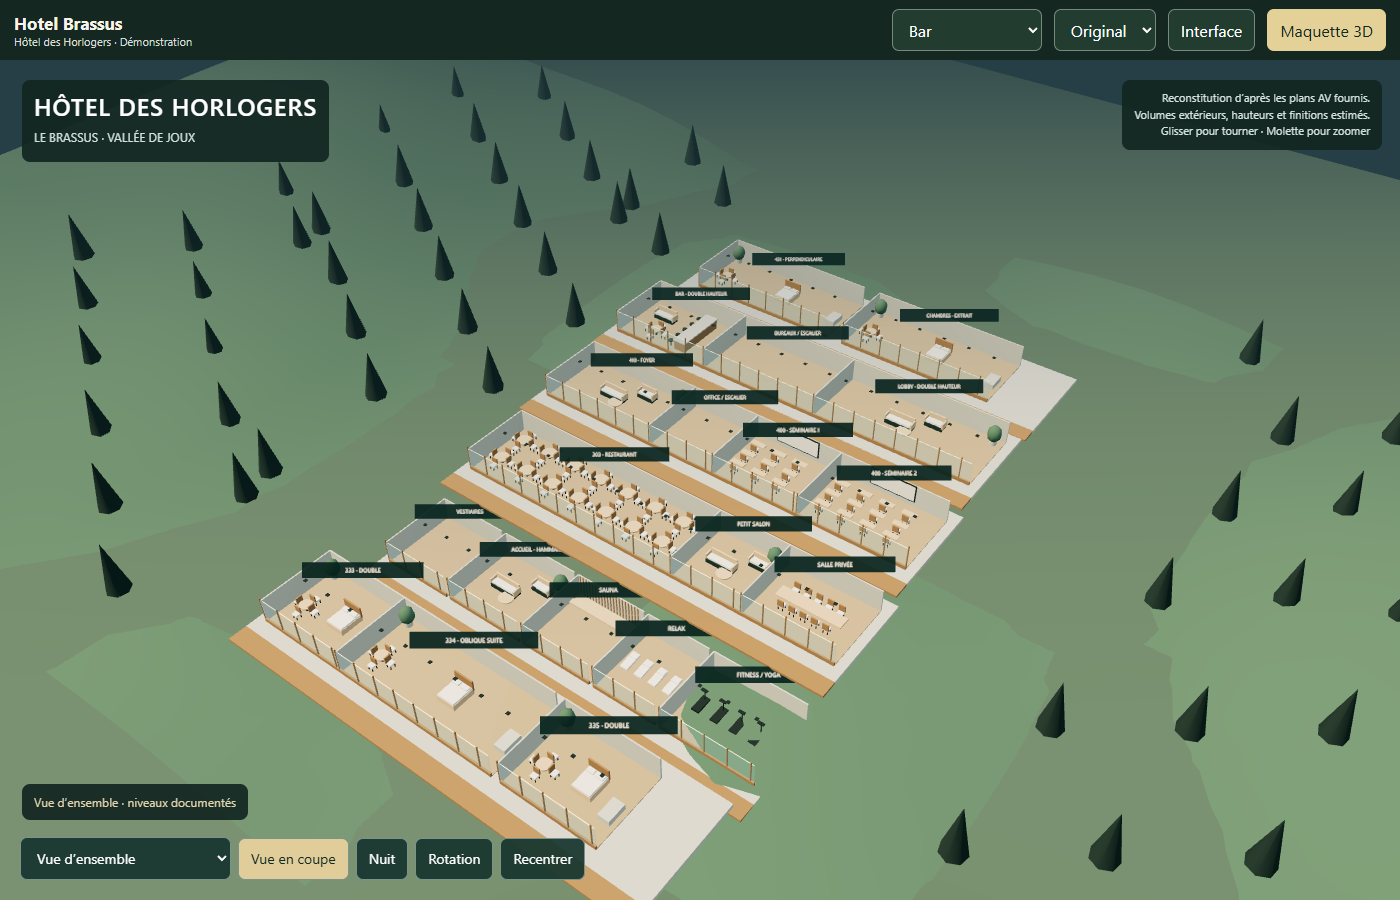
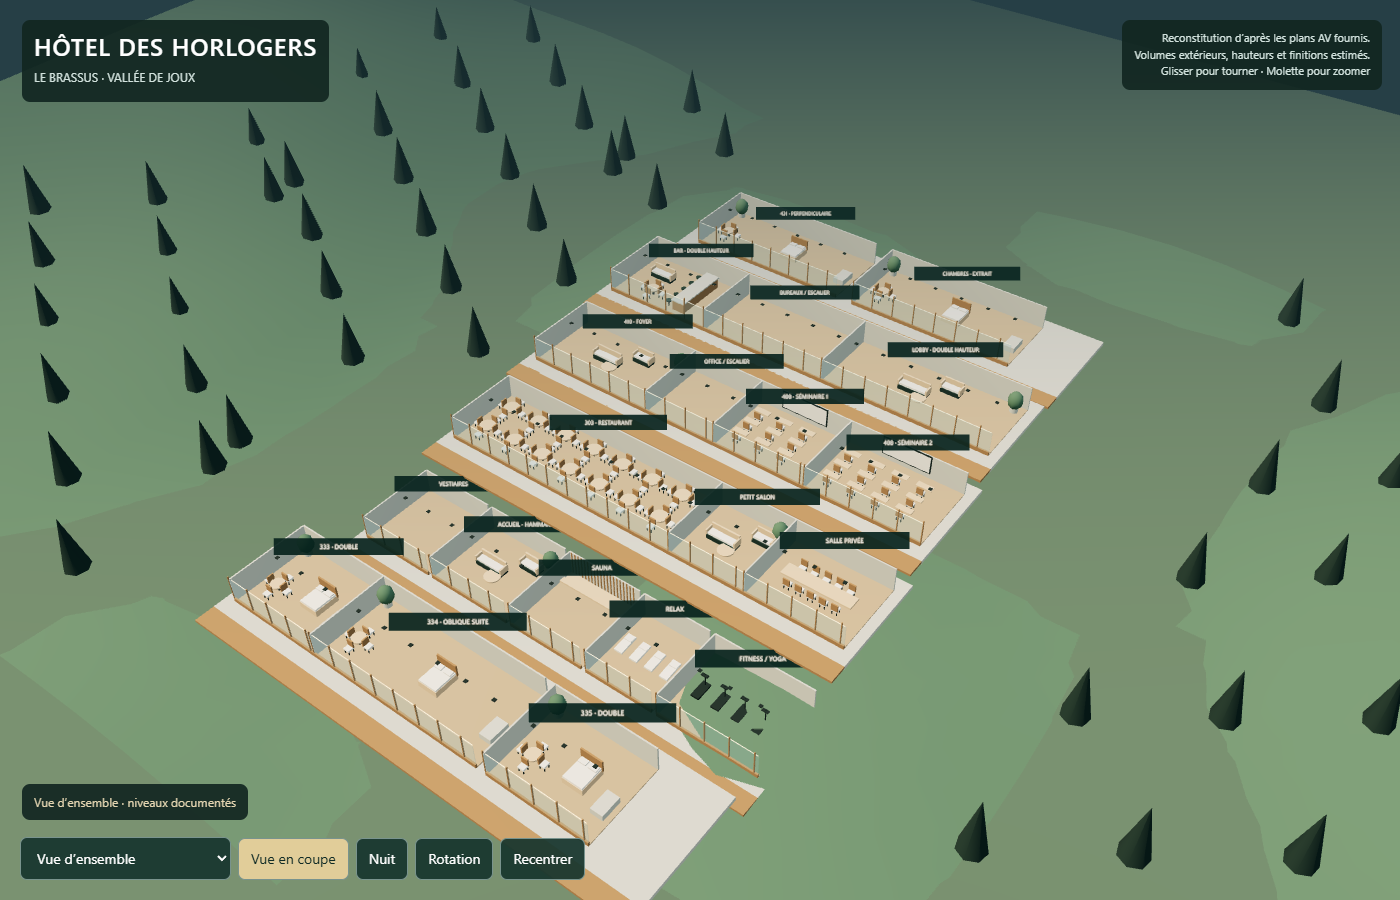
Keep Hotel Brassus GUI inside chassis and open 3D from site tools

diff --git a/apps/showcase/src/components/HotelBrassusTools.jsx b/apps/showcase/src/components/HotelBrassusTools.jsx
@@ -1,0 +1,54 @@
+import { useEffect, useRef, useState } from 'react';
+import { createPortal } from 'react-dom';
+import './hotel-brassus.css';
+
+// Presentation controls belong to the website, never to the device GUI.
+export function HotelBrassusTools({ guiFrameRef }) {
+  const [zone, setZone] = useState('bar'), [theme, setTheme] = useState('actuel');
+  const [open, setOpen] = useState(false), model = useRef(null), trigger = useRef(null), close = useRef(null);
+  const feedback = useRef(null);
+  useEffect(() => {
+    const frame = guiFrameRef.current;
+    if (!frame) return;
+    const url = new URL(frame.src);
+    url.searchParams.set('zone', zone); url.searchParams.set('theme', theme); url.searchParams.set('nolock', '1');
+    if (url.href !== frame.src) frame.src = url.href;
+  }, [zone, theme, guiFrameRef]);
+  useEffect(() => {
+    const receive = e => {
+      if (e.origin !== location.origin) return;
+      if (e.source === guiFrameRef.current?.contentWindow && e.data?.channel === 'hdh-demo') {
+        feedback.current = e.data;
+        model.current?.contentWindow.postMessage(e.data, location.origin);
+      }
+      if (e.source === model.current?.contentWindow && e.data?.channel === 'hdh-close') setOpen(false);
+    };
+    window.addEventListener('message', receive);
+    return () => window.removeEventListener('message', receive);
+  }, [guiFrameRef]);
+  useEffect(() => {
+    if (!open) return;
+    const app = document.getElementById('root'), previousInert = app?.inert;
+    if (app) app.inert = true;
+    close.current?.focus();
+    const escape = e => { if (e.key === 'Escape') { e.stopPropagation(); setOpen(false); } };
+    window.addEventListener('keydown', escape, true);
+    return () => { window.removeEventListener('keydown', escape, true); if (app) app.inert = previousInert; trigger.current?.focus(); };
+  }, [open]);
+  return <>
+    <div className="hotel-brassus-tools">
+      <label>Espace<select aria-label="Espace" value={zone} onChange={e => setZone(e.target.value)}>
+        <option value="bar">Bar</option><option value="entrance">Entrée / Lobby</option><option value="restaurant">Restaurant</option><option value="salon">Petit salon</option><option value="pdr">Salle privée</option><option value="wellness">Wellness</option><option value="seminar">Séminaires</option>
+      </select></label>
+      <label>Thème<select aria-label="Thème" value={theme} onChange={e => setTheme(e.target.value)}><option value="actuel">Original</option><option value="clair">Clair</option><option value="sombre">Sombre</option></select></label>
+      <button ref={trigger} type="button" onClick={() => setOpen(true)}>Maquette 3D</button>
+      <small>Commandes simulées</small>
+    </div>
+    {open && createPortal(<div className="hdh-model-overlay">
+      <section className="hdh-model-dialog" role="dialog" aria-modal="true" aria-labelledby="hdh-model-title">
+        <header><strong id="hdh-model-title">Hotel Brassus · Maquette 3D</strong><button ref={close} type="button" onClick={() => setOpen(false)}>Fermer</button></header>
+        <iframe ref={model} src="/showcases/hotel-brassus/model.html" title="Maquette 3D de l’Hôtel des Horlogers" onLoad={() => { if (feedback.current) model.current.contentWindow.postMessage(feedback.current, location.origin); }} />
+      </section>
+    </div>, document.body)}
+  </>;
+}

diff --git a/apps/showcase/public/showcases/hotel-brassus/model.js b/apps/showcase/public/showcases/hotel-brassus/model.js
@@ -74,6 +74,7 @@
   canvas.onpointermove=e=>{if(!drag)return;theta-=(e.clientX-drag.x)*.006;phi=Math.max(.22,Math.min(1.4,phi+(e.clientY-drag.y)*.004));drag={x:e.clientX,y:e.clientY};};canvas.onpointerup=canvas.onpointercancel=()=>{drag=null};
   canvas.addEventListener('wheel',e=>{e.preventDefault();radius=Math.max(24,Math.min(160,radius*Math.exp(e.deltaY*.001)));},{passive:false});
   window.addEventListener('message',e=>{if(e.origin!==location.origin||e.source!==parent)return;const m=e.data;if(m?.channel==='hdh-view'&&typeof m.visible==='boolean')visible=m.visible;if(m?.channel==='hdh-demo'){const id={bar:'550',entrance:'450',restaurant:'350',salon:'350',pdr:'350',wellness:'250',seminar:'450'}[m.zone];if(id)levels[id].traverse(o=>{if(o.isMesh&&o.material===mats.glow){o.visible=m.level>0;}});}});
+  window.addEventListener('keydown',e=>{if(e.key==='Escape')parent.postMessage({channel:'hdh-close'},location.origin)});
   let last=0;
   function frame(now){requestAnimationFrame(frame);if(document.hidden||!visible)return;const w=canvas.clientWidth,h=canvas.clientHeight;if(!w||!h)return;if(canvas.width!==Math.round(w*renderer.getPixelRatio())||canvas.height!==Math.round(h*renderer.getPixelRatio())){renderer.setSize(w,h,false);camera.aspect=w/h;camera.updateProjectionMatrix();}if(auto&&!matchMedia('(prefers-reduced-motion: reduce)').matches)theta+=Math.min((now-last)/1000,.05)*.1;last=now;camera.position.set(target.x+radius*Math.sin(phi)*Math.sin(theta),target.y+radius*Math.cos(phi),target.z+radius*Math.sin(phi)*Math.cos(theta));camera.lookAt(target);renderer.render(scene,camera);}
   requestAnimationFrame(frame);window.HDH_MODEL={levels,roofs,select,renderer,scene,camera};

diff --git a/apps/showcase/src/components/hotel-brassus.css b/apps/showcase/src/components/hotel-brassus.css
@@ -1,0 +1,10 @@
+.hotel-brassus-tools{display:grid;gap:8px;width:100%;padding:12px;border:1px solid #84978e;border-radius:12px;background:#18382f;color:#fff}
+.hotel-brassus-tools label{display:grid;gap:4px;font-size:12px;font-weight:600}
+.hotel-brassus-tools select,.hotel-brassus-tools button,.hdh-model-dialog header button{width:100%;min-height:40px;padding:8px;border:1px solid #8a9b91;border-radius:6px;background:#244638;color:#fff;font:inherit}
+.hotel-brassus-tools button{background:#e4d197;color:#172e24;font-weight:600;cursor:pointer}
+.hotel-brassus-tools small{font-size:11px;color:#e0e9e4;text-align:center}
+.hdh-model-overlay{position:fixed;inset:0;z-index:10000;background:#071510df;padding:2vh 2vw;display:flex}
+.hdh-model-dialog{width:100%;height:100%;display:flex;flex-direction:column;overflow:hidden;border:1px solid #7f9489;border-radius:12px;background:#152f27;color:white;box-shadow:0 24px 100px #0008}
+.hdh-model-dialog header{display:flex;align-items:center;justify-content:space-between;gap:16px;padding:10px 18px;flex-shrink:0}
+.hdh-model-dialog header button{width:auto;min-width:90px;cursor:pointer}
+.hdh-model-dialog iframe{flex:1;min-height:0;width:100%;border:0}

diff --git a/apps/showcase/src/components/Showcase.jsx b/apps/showcase/src/components/Showcase.jsx
@@ -1,3 +1,4 @@
+import { HotelBrassusTools } from "./HotelBrassusTools";
 import React, { Suspense, useCallback, useEffect, useMemo, useRef, useState } from "react";
 import { Icons as LucideIcons } from "../icons";
 import { useTranslation } from "../context/LanguageContext";
@@ -563,6 +564,7 @@ const ShowcaseInner = ({ sectorId, projectId, device }) => {
                 )}
               </div>
             )}
+            {activeProject.id === "hotel-brassus" && <HotelBrassusTools key={viewportDevice} guiFrameRef={guiFrameRef} />}
             <div className="device-buttons-column">
               {projectViewports.map((dev) => (
                 <button

diff --git a/apps/showcase/src/data/projects.js b/apps/showcase/src/data/projects.js
@@ -315,7 +315,7 @@ export const projects = [
     "xpanel"
   ],
   "isInteractive": false,
-  "embedUrl": "/showcases/hotel-brassus/index.html",
+  "embedUrl": "/showcases/hotel-brassus/ch5/index.html?zone=bar&theme=actuel&nolock=1",
   "thumbnailUrl": "/sheets/hotel-brassus/01-gui.png",
   "year": "2026",
   "text": {

diff --git a/apps/showcase/README.md b/apps/showcase/README.md
@@ -427,6 +427,6 @@ Artefacts : source iPhone C1 et showcase mis à jour ; aucun CH5Z, CPZ ou LPZ co
 
 Nouveau projet Hôtellerie, distinct de Hotel Geneva. Import reproductible du GUI HDH CH5 2.12.16 depuis le dossier fourni, avec ses thèmes Original/Clair/Sombre et sept profils locaux. Retours natifs CrComLib simulés ; aucun contact avec un automate. Sources de l'hôtel préservées. Correction de contraste du menu et des valeurs en thème sombre dans une feuille réservée à la vitrine ; ouverture du panneau des circuits via l'adaptateur local.
 
-Onglet Maquette 3D : six niveaux/extraits issus des plans AV, vue en coupe et toitures, isolation par niveau, rotation, zoom, jour/nuit. Implantation globale, hauteurs et finitions interprétées, clairement signalées ; ce n'est pas un BIM de l'ensemble du bâtiment. Plans bruts non publiés. Mobilier instancié par niveau et chargement 3D à la demande. Pas de smartphone inventé ni de parcours de démo automatique sur ce GUI imbriqué ; autres projets inchangés.
+Bouton Maquette 3D dans la colonne du site, avec vue agrandie hors châssis : six niveaux/extraits issus des plans AV, vue en coupe et toitures, isolation par niveau, rotation, zoom, jour/nuit. Implantation globale, hauteurs et finitions interprétées, clairement signalées ; ce n'est pas un BIM de l'ensemble du bâtiment. Plans bruts non publiés. Mobilier instancié par niveau et chargement 3D à la demande. Pas de smartphone inventé ni de parcours de démo automatique sur ce GUI imbriqué ; autres projets inchangés.
 
 Fiches FR/EN/DE et captures ajoutées. Sources, empreintes, décisions et limites : `docs/hotel-brassus.md`. Recette : `docs/verification/2026-09-26-hotel-brassus/`. Aucun programme ni matériel Crestron modifié ou déployé.

diff --git a/apps/showcase/docs/verification/2026-09-26-hotel-brassus/README.md b/apps/showcase/docs/verification/2026-09-26-hotel-brassus/README.md
@@ -14,3 +14,5 @@ Environnement : Windows, Edge Chromium automatisé par Playwright, build Vite se
 Exceptions explicites : pas de GUI Smartphone dans la source livrée ; pas de thème Verre ajouté ; pas de modèle architectural d'exécution. Les fenêtres AV de l'ancien profil 211 ne sont pas exposées par le profil Séminaires 210 actuel. Les pages sont vérifiées aux dimensions internes, les châssis séparément ; cette recette est factorisée et n'est pas annoncée comme le produit cartésien de tous les états et modes.
 
 Script reproductible : `apps/showcase/scripts/test-hotel-brassus.cjs`. Variables facultatives `PLAYWRIGHT_MODULE`, `BROWSER_CHANNEL`, `HDH_BASE_URL`, `HDH_TEST_OUTPUT` pour adapter l'installation locale.
+
+Revue finale : GUI seul dans le châssis ; sélecteurs et ouverture 3D déplacés dans la colonne du site. `host-model.json` vérifie profil Séminaires, thème Sombre, ouverture de la vue 3D hors du châssis et fermeture par Échap depuis son iframe. Les captures `site-final.png`, `scene-final.png` et `model-dialog.png` remplacent les vues antérieures avec barre de présentation imbriquée.

diff --git a/apps/showcase/docs/hotel-brassus.md b/apps/showcase/docs/hotel-brassus.md
@@ -20,7 +20,7 @@ La CSP de la copie bloque les connexions distantes et les médias.
 
 Décisions : supports d'origine paysage (dalle, iPad, XPanel), pas de faux GUI iPhone.
 Les trois thèmes de cette réalisation sont Original, Clair et Sombre ; le thème Verre du catalogue n'est pas ajouté au GUI client.
-La maquette a son onglet dans la présentation de ce projet, accessible sur les trois supports.
+Le bouton Maquette 3D de la colonne du site ouvre une vue agrandie hors du châssis, accessible sur les trois supports. Les sélecteurs Espace/Thème restent aussi hors du GUI.
 Elle ne modifie pas les règles de fond 3D des autres projets.
 `demo.css` corrige uniquement la lisibilité du menu en vitrine (l'original réduit l'opacité des entrées inactives à 0,35).
 Les pourcentages AV et valeurs des circuits sont aussi corrigés en thème Sombre (texte clair sur fond clair dans la source).
